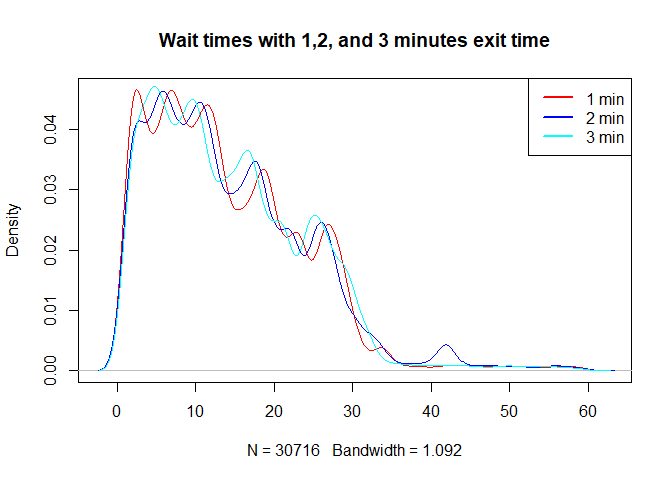
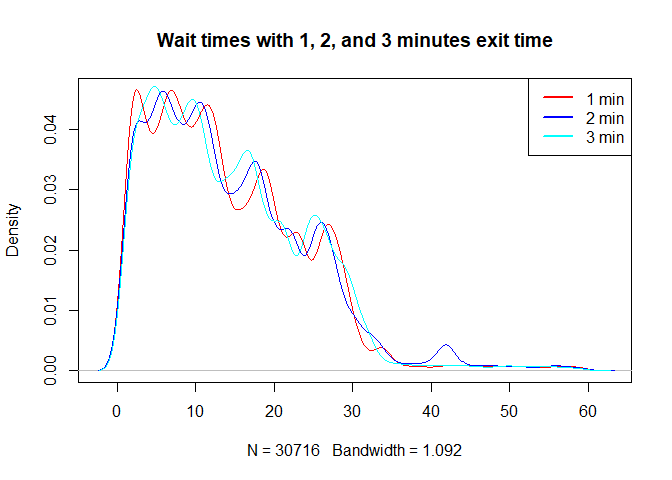
added median plots and reknitted

Changed region(s): [[0.2188, 0.0625, 0.8438, 0.125]]

diff --git a/Code/6_Wait_Time_Analysis.md b/Code/6_Wait_Time_Analysis.md
@@ -1,7 +1,19 @@
 Wait Time Analysis
 ================
 Clare Clingain
-April 29, 2019
+
+# Research Questions
+
+Here are the research questions I hope to answer:
+
+1)  What does the distribution of lateness look like for connections
+    between the 1 train and the Staten Island Ferry?
+
+2)  How does this distribution vary across time (e.g., rush hour vs
+    tourist peak)?
+
+3)  How does this distribution vary for people who can run versus people
+    who can’t run from the 1 train to the ferry?
 
 # Initial Visualizations
 
@@ -9,7 +21,7 @@ April 29, 2019
 
 ``` r
 # overlay plot
-plot(density(analysis_data$wait_times_1min), main = "Wait times with 1,2, and 3 minutes exit time", col = 2)
+plot(density(analysis_data$wait_times_1min), main = "Wait times with 1, 2, and 3 minutes exit time", col = 2)
 lines(density(analysis_data$wait_times_2min), col = 4)
 lines(density(analysis_data$wait_times_3min), col = 5)
 legend("topright",legend = c("1 min","2 min","3 min"), lty = 1, lwd = 2, col = c(2,4,5))
@@ -21,15 +33,90 @@ The three distributions look quite similar. In terms of the simulations
 I ran, these distributions look like the beta distribution
 results.
 
-## Time x Wait times
+## Time (hour) x Wait times
 
 ``` r
-plot(analysis_data$hour, analysis_data$wait_times_1min, main = "Wait times",xlab = "Hour of day",ylab = "Wait time (1 min exit time)")
+plot(as.factor(analysis_data$hour), analysis_data$wait_times_1min, main = "Wait times  (1 min exit time)",xlab = "Hour of day",ylab = "Wait time")
 ```
 
 ![](6_Wait_Time_Analysis_files/figure-gfm/time%20by%20wait%20times-1.png)<!-- -->
 
-# Test the difference between the distributions
+``` r
+plot(as.factor(analysis_data$hour), analysis_data$wait_times_2min, main = "Wait times  (2 min exit time)",xlab = "Hour of day",ylab = "Wait time")
+```
+
+![](6_Wait_Time_Analysis_files/figure-gfm/time%20by%20wait%20times-2.png)<!-- -->
+
+``` r
+plot(as.factor(analysis_data$hour), analysis_data$wait_times_3min, main = "Wait times (3 min exit time)",xlab = "Hour of day",ylab = "Wait time")
+```
+
+![](6_Wait_Time_Analysis_files/figure-gfm/time%20by%20wait%20times-3.png)<!-- -->
+
+It makes sense that the waits pile up late at night and during the
+tourist peak hours (10-3). I’m curious seeing that the very lengthy wait
+times caused by a missing ferry are so dispersed. I initially thought
+that it would be worse in the wee hours of the morning, but it looks to
+be a problem throughout the day. This isn’t concerning in terms of
+something being wrong with the data because there are many reasons why a
+ferry or a train never shows. Both can break down, both can have sick
+passengers, and both can barely miss each other.
+
+``` r
+# medians
+medians_IQR <- analysis_data %>% 
+  group_by(as.factor(hour)) %>% 
+  summarise(median_1min = median(wait_times_1min),
+            median_2min = median(wait_times_2min),
+            median_3min = median(wait_times_3min),
+            IQR_1min = IQR(wait_times_1min),
+            IQR_2min = IQR(wait_times_2min),
+            IQR_3min = IQR(wait_times_3min))
+colnames(medians_IQR)[1] <- "hour"
+# plot the medians and IQR
+plot(x = as.numeric(medians_IQR$hour), y = medians_IQR$median_1min, pch = 16, main = "Median wait times by hour", ylab = "Wait time (in minutes)", xlab = "Hour")
+lines(x = as.numeric(medians_IQR$hour), y = medians_IQR$median_1min, lwd = 2)
+lines(x = as.numeric(medians_IQR$hour), y = medians_IQR$median_2min, lwd = 2, col = 2, type = 'o', pch = 16)
+lines(x = as.numeric(medians_IQR$hour), y = medians_IQR$median_3min, lwd = 2, col = 4, type = 'o', pch = 16)
+legend("bottomright",legend = c("1 min","2 min","3 min"), lty = 1, lwd = 2, col = c(1,2,4))
+```
+
+![](6_Wait_Time_Analysis_files/figure-gfm/med%20iqr-1.png)<!-- -->
+
+For the rush-hour and tourist peak hours, it looks like time-to-exit
+doesn’t make a difference. A longer time-to-exit does seem to matter for
+the late night/early morning hours.
+
+## Time (weekday) x Wait times
+
+Now I’ll check the wait times by
+weekday.
+
+``` r
+plot(analysis_data$weekday, analysis_data$wait_times_1min, main = "Wait times (1 min exit time)",xlab = "Hour of day",ylab = "Wait time")
+```
+
+![](6_Wait_Time_Analysis_files/figure-gfm/weekday%20by%20wait-1.png)<!-- -->
+
+``` r
+plot(analysis_data$weekday, analysis_data$wait_times_2min, main = "Wait times (2 min exit time)",xlab = "Hour of day",ylab = "Wait time")
+```
+
+![](6_Wait_Time_Analysis_files/figure-gfm/weekday%20by%20wait-2.png)<!-- -->
+
+``` r
+plot(analysis_data$weekday, analysis_data$wait_times_3min, main = "Wait times (3 min exit time)",xlab = "Hour of day",ylab = "Wait time")
+```
+
+![](6_Wait_Time_Analysis_files/figure-gfm/weekday%20by%20wait-3.png)<!-- -->
+
+I’m curious as to why the distributions for Tuesday and Thursday seem
+more spread and have slightly higher medians than Monday, Wednesday, and
+Friday. Once again, we see that the long delays seem to be evenly
+distributed across days of the week. I’d like to test if these
+distrbutions are different from each other later on.
+
+# Test the difference between the wait distributions
 
 I will use the two-sample Kolmogorov-Smirnov test to determine whether
 each distribution is different from the other two. I will adjust my
@@ -108,5 +195,5 @@ iid assumption of the KS test. Even though some wait times may be
 independent of one another (i.e., morning rush from evening rush,
 January from June), I doubt that this is the case across all the data.
 Two consectutive trains are unlikely to be independent. Nevertheless,
-this test gives us an additional peice of information that we will use
+this test gives us an additional piece of information that we will use
 with caution.
